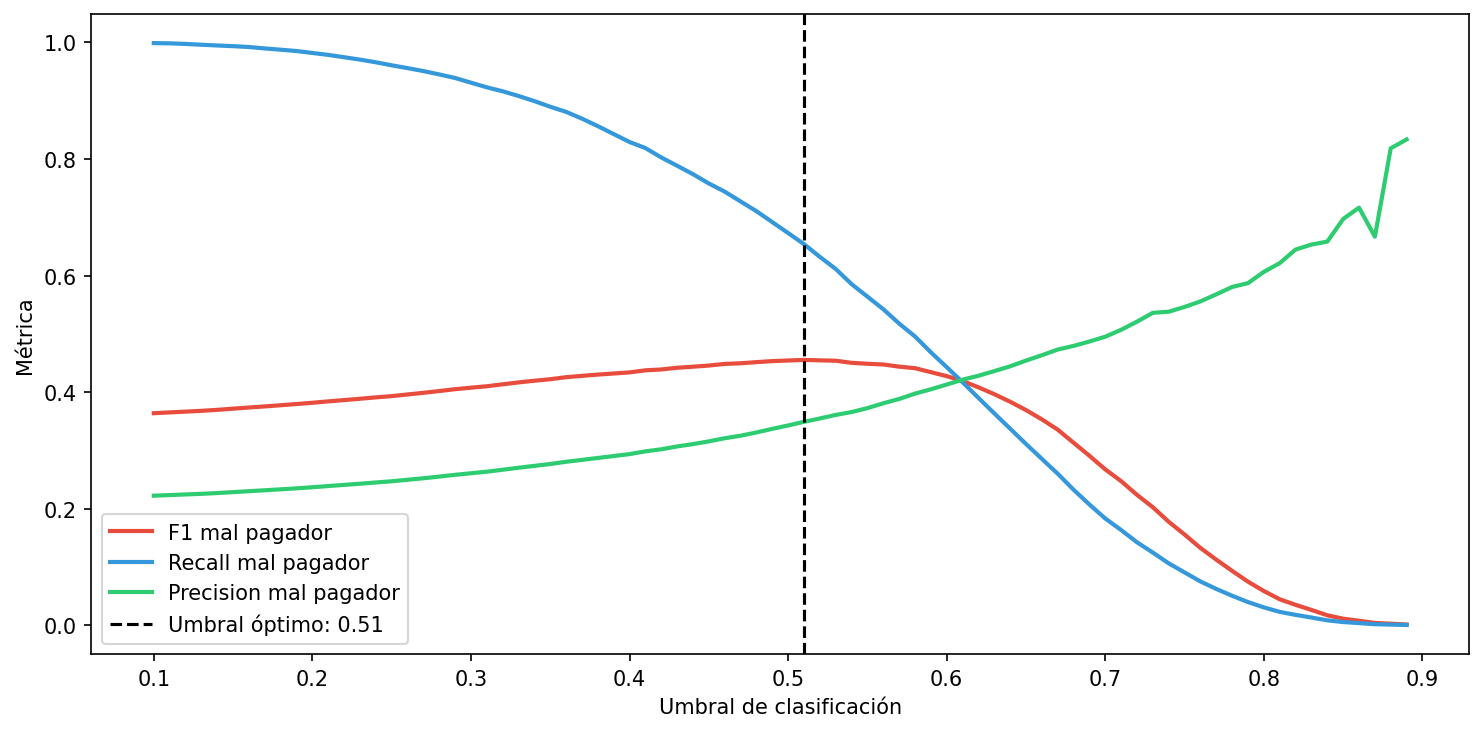
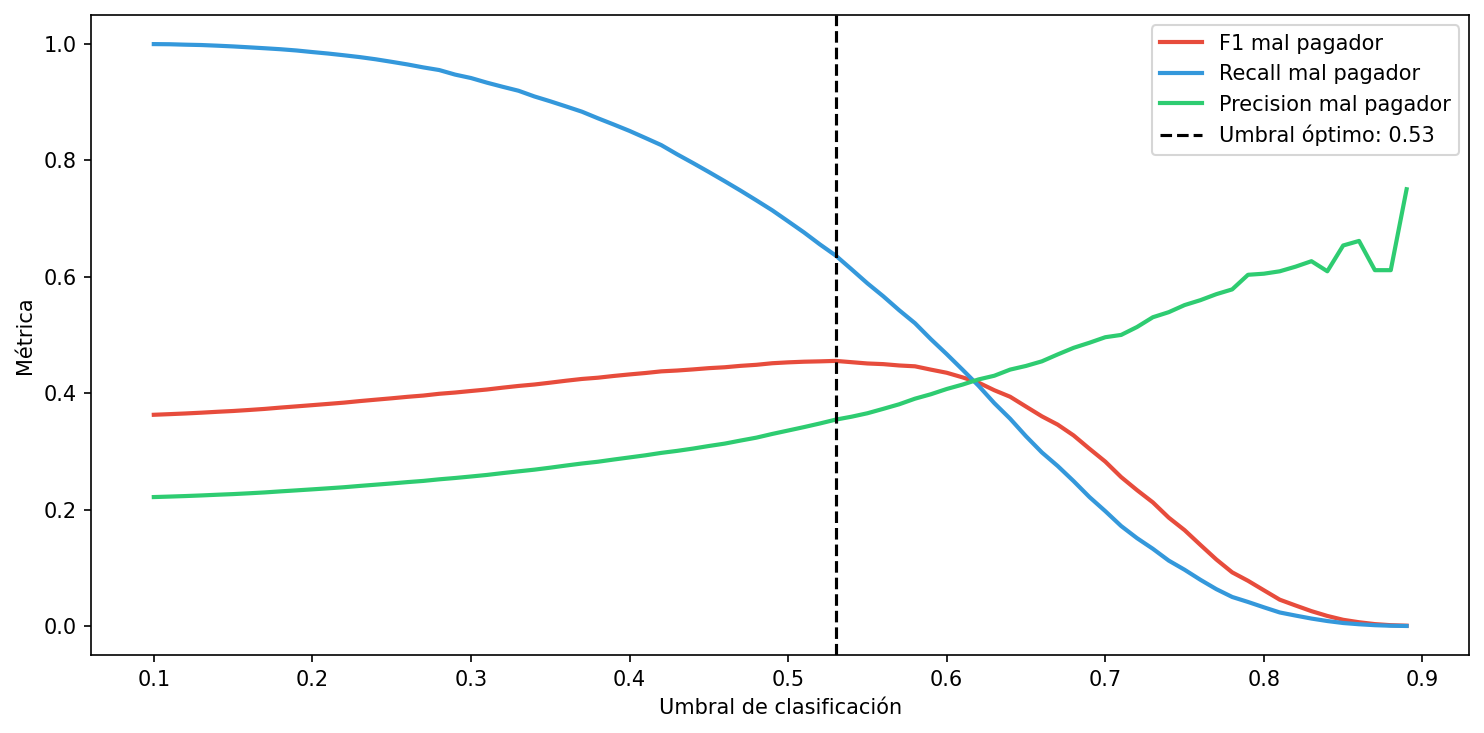
Actualizar blog con nuevas métricas

diff --git a/docs/exploracion.md b/docs/exploracion.md
@@ -49,7 +49,7 @@ Además, tras inspeccionar el diccionario, se identificó que no todas las varia
 | `policy_code` | Generalmente tiene un solo valor (1 o 2) para todo el dataset. Si no varía, no ayuda al modelo a distinguir entre buenos y malos. |
 | `funded_amnt`, `funded_amnt_inv` | A veces el banco aprueba menos de lo que el cliente pidió (`loan_amnt`). Usamos solo `loan_amnt` porque es el riesgo solicitado inicialmente. |
 | `out_prncp`, `out_prncp_inv` | Representan el capital que aún no se ha pagado. En el momento de solicitar el crédito, este valor siempre es igual al monto prestado; si varía, es porque el préstamo ya está en curso, revelando indirectamente si el cliente es "bueno" o "malo" antes de que el modelo prediga. |
-| `grade`| Es una versión simplificada de `sub_grade`. Al mantener ambas, introducimos información redundante que no añade poder predictivo a la Red Neuronal y puede complicar la interpretación de los coeficientes en la scorecard final. |
+| `grade`, `sub_grade` | Representan la calificación interna asignada por la entidad financiera tras su propio análisis. Incluirlas obligaría al modelo a replicar un juicio previo en lugar de aprender patrones de riesgo primarios, invalidando su uso para nuevos solicitantes que aún no han sido calificados.  |
 
 </div>
 
@@ -66,7 +66,6 @@ Para codificar las variables categóricas, primero validamos si una variable es 
 | Variable | Tipo de Dato Original | Tratamiento Propuesto | Justificación |
 | :--- | :--- | :--- | :--- |
 | **`term`** | String (" 36 months") | **Numérico (36, 60)** | El plazo es una magnitud física. Un plazo más largo suele implicar mayor riesgo de impago por exposición al tiempo. |
-| **`grade`** | String ("A1", "B2") | **Ordinal (1 a 35)** | Representa el riesgo asignado por el analista. Hay un orden jerárquico claro donde A1 < A2 < ... < G5. |
 | **`emp_length`** | String ("10+ years") | **Ordinal (0 a 10)** | Representa estabilidad laboral. "10+" es el valor máximo y "< 1 year" el mínimo. Se mapea a una escala lineal. |
 | **`earliest_cr_line`** | Fecha ("Jan-1985") | **Numérico (Meses)** | Una fecha por sí sola no dice nada. Lo que importa es la **antigüedad crediticia**. Calculamos los meses transcurridos desde esa fecha hasta el presente del dataset. |
 | **`verification_status`** | String | **Nominal (One-Hot)** | Aunque hay niveles (Verified vs Not), no hay una escala numérica lineal clara de riesgo entre ellos. |
@@ -76,8 +75,8 @@ Para codificar las variables categóricas, primero validamos si una variable es 
 
 </div>
 
-**Sobre la fecha de referencia para `earliest_cr_line`:**
-Dado que este dataset es histórico (finaliza aproximadamente en 2015-2018), usaremos la **fecha máxima detectada en la columna** como "Hoy". Así medimos la antigüedad relativa de cada cliente. Sin embargo, esto asume un punto de corte estático para todos los préstamos. En un escenario real, sería ideal tener la fecha de cada solicitud de crédito para calcular la antigüedad exacta en ese momento. Pero dado el dataset disponible, esta es una aproximación razonable.
+>**Sobre la fecha de referencia para `earliest_cr_line`:**
+Dado que este dataset es histórico, usaremos la **fecha máxima detectada en la columna** como "Hoy". Así medimos la antigüedad relativa de cada cliente. Sin embargo, esto asume un punto de corte estático para todos los préstamos. En un escenario real, sería ideal tener la fecha de cada solicitud de crédito para calcular la antigüedad exacta en ese momento. Pero dado el dataset disponible, esta es una aproximación razonable.
 
 ## 2. Análisis Descriptivo
 
@@ -90,9 +89,7 @@ Uno de los hallazgos más críticos del análisis descriptivo es la distribució
     <p><em>Figura 1. Distribución de la variable objetivo</em></p>
 </div>
 
-> *Nota: Se observa que hay aproximadamente **3.6 veces más buenos pagadores** que malos pagadores. Este desbalance requiere estrategias específicas de evaluación (como F1-Score o AUC-ROC) en lugar de la precisión simple (Accuracy).*
-
----
+De la Figura 1 se observa que hay aproximadamente **3.6 veces más buenos pagadores** que malos pagadores. Este desbalance requiere estrategias específicas de evaluación (como F1-Score o AUC-ROC) en lugar de la precisión simple (Accuracy).*
 
 ### 2.2 Análisis de Variables Numéricas vs Target
 
@@ -126,31 +123,27 @@ El **revol_util** señala que los malos pagadores usan más dinero del crédito 
 De la misma manera analizaremos las variables categóricas vs el target, comparando cómo se distribuyen las variables categóricas más importantes entre buenos y malos pagadores usando gráficos de barras. De igual manera, si una variable tiene distribuciones diferentes entre las dos clases, es una buena señal de que será útil para el modelo.
 
 Las variables que analizaremos son:
-*   **grade — calificación crediticia del préstamo**
+*   **initial_list_status — estado inicial de la lista de préstamos**
 *   **purpose — propósito del crédito**
 *   **home_ownership — tipo de vivienda del solicitante**
 *   **verification_status — estado de verificación de ingresos**
 *   **emp_length — antigüedad laboral**
 *   **term — plazo del crédito**
 
-> Acá usamos grade porque no la eliminamos por ser irrelevante, sino porque se codificó con sub_grade, y usar sub_grade acá no es posible porque tiene demasiadas categorías. Sin embargo, el análisis de grade nos da una idea de cómo se relaciona la calificación crediticia con el incumplimiento.
-
 <div style="text-align: center;">
     <img src="https://raw.githubusercontent.com/jihernandezc/rnaab_riesgo_crediticio/refs/heads/master/output/figs/fig3_categoricas_vs_target.png" width="700" />
     <p><em>Figura 3. Tasa de incumplimiento por variable categórica</em></p>
 </div>
 
-Basándonos en la Figura 3, podemos deducir que **grade** es la variable categórica con mayor poder de separación pues tiene una tendencia marcada de que mientras mayor sea el grado (más cercano a G) mayor será la probabilidad de que el cliente incumpla con el pago de su crédito.
+Basándonos en la **Figura 7**, se observa que la variable **term** posee el mayor poder de separación del set. Los créditos a **60 meses** presentan una tasa de incumplimiento que casi duplica a los de **36 meses**, confirmando que el horizonte temporal es un factor de riesgo crítico. En cuanto al **purpose**, la variable permite identificar segmentos claramente diferenciados. Los préstamos para **small business** son los más riesgosos, superando ampliamente la media general del 21.9%, mientras que los destinos de **car** y **wedding** muestran ser los más seguros, lo que la convierte en una variable fundamental para el filtrado de solicitudes.
 
-**Purpose** muestra que los créditos para **small bussiness** son los más riesgosos y que para **wedding** y **car** son los más seguros, también aparenta ser una buena variable para separar ambos casos.
+La variable **initial_list_status** presenta una ligera diferencia en el comportamiento de pago según el método de listado inicial del préstamo. Aquellos etiquetados como **"w" (whole)** muestran un índice de incumplimiento ligeramente superior a la media y al estado **"f" (fractional)**, lo que sugiere que la modalidad de financiamiento inicial tiene un impacto medible, aunque sutil, en el riesgo.
 
-El **home_ownership** parece ser más estable por lo que es más riesgoso para nuestro modelo tomar decisiones basadas en dicha variable.
+Respecto a **verification_status**, los datos revelan un comportamiento **contraintuitivo**: los clientes con ingresos **Verified** presentan mayor incumplimiento que los **Not Verified**. Esto podría indicar que la verificación se solicita con mayor rigor a perfiles que ya presentan otros indicadores de riesgo, o que los clientes no verificados poseen una solidez financiera que no requiere de validación adicional por parte del banco.
 
-**verification_status** suele tener un comportamiento similar a la anterior variable y parece que la clasificación es contraintuitiva puesto que los clientes con ingresos **verified** presentan más incumplimiento.
+Por otro lado, **home_ownership** confirma que la estabilidad patrimonial influye en el riesgo; los clientes que viven en **RENT** (alquiler) tienen la tasa de mora más alta, mientras que los que poseen **MORTGAGE** (hipoteca) son más consistentes en sus pagos.
 
-**emp_length** Es la variable con menor poder discriminativo de todas debido a la similitud presentada en todos los posibles valores de la misma con respecto a la media.
-
-Y el **term** si puede ser una variable muy útil, ya que nos permite analizar que los créditos a 60 meses presetan mayor índice de incumplimiento frente a los créditos a 32 meses, lo cual suena bastante lógico.
+Finalmente, **emp_length** (antigüedad laboral) se consolida como la variable con **menor poder discriminativo**. Independientemente de los años de experiencia, la tasa de incumplimiento fluctúa mínimamente alrededor de la media, lo que demuestra que, para este modelo, la estabilidad en el empleo no garantiza necesariamente la voluntad o capacidad de pago.
 
 ### 2.4 Correlación entre las Variables y el Target
 
@@ -211,7 +204,7 @@ Tras el análisis descriptivo, formalizamos las siguientes hipótesis de riesgo 
 | Variable | Hallazgo | Hipótesis de Riesgo |
 | :--- | :--- | :--- |
 | `int_rate` | Malos: 16.0% vs Buenos: 13.3% | **Costo del Riesgo:** A mayor tasa de interés, se genera un fenómeno de "selección adversa" y una carga financiera mayor que asfixia al deudor, elevando la probabilidad de impago. |
-| `dti` | Malos: 18.6 vs Buenos: 16.1 | **Capacidad de Pago:** Un DTI elevado indica que el cliente tiene poco margen de maniobra ante imprevistos económicos, haciendo que el nuevo crédito sea difícil de sostener. |
+| `dti` | Malos: 18.7 vs Buenos: 16.1 | **Capacidad de Pago:** Un DTI elevado indica que el cliente tiene poco margen de maniobra ante imprevistos económicos, haciendo que el nuevo crédito sea difícil de sostener. |
 | `annual_inc` | Malos: \$66k vs Buenos: \$74k | **Efecto Escudo:** Los ingresos altos actúan como un colchón financiero. A menor ingreso, mayor vulnerabilidad ante la volatilidad económica. |
 | `revol_util` | Malos: 59.2% vs Buenos: 53.2% | **Dependencia del Crédito:** Un uso alto de líneas rotativas sugiere que el cliente vive al límite de su capacidad crediticia y utiliza el crédito para gastos corrientes. |
 | `term` | 60 meses tiene > mora | **Exposición Temporal:** Los créditos a largo plazo están sujetos a más eventos de vida (despido, enfermedad), aumentando la incertidumbre del pago final. |
@@ -229,7 +222,7 @@ El proceso de exploración no solo sirvió para limpiar datos, sino para generar
 4.  **Desafío del Desbalance (78/22):** La población está sesgada hacia los buenos pagadores. Esto nos enseña que un modelo "perezoso" podría predecir que todos son buenos y tener un 78% de precisión, pero sería inútil para el negocio. El reto del modelado será maximizar el *Recall* (detectar a los malos) sin destruir la rentabilidad.
 5.  **Variables Contraintuitivas:** Descubrimos que la antigüedad laboral (`emp_length`) tiene poco poder discriminatorio. Esto sugiere que, en el mercado actual, tener muchos años en un empleo no garantiza responsabilidad financiera, lo cual rompe un paradigma tradicional del análisis de crédito.
 
-## 5. Referncias
+## 5. Referencias
 
 **Gopi, S. (2020, 20 de septiembre).** *How to Prepare Data for Credit Risk Modeling*. Towards Data Science. https://towardsdatascience.com/how-to-prepare-data-for-credit-risk-modeling-5523641882f2/
 

diff --git a/docs/modelos.md b/docs/modelos.md
@@ -33,8 +33,8 @@ El entrenamiento se configuró con parámetros específicos para garantizar la e
 
 | Métrica | Clase / Promedio | Precisión | Recall | F1-Score | Soporte |
 | :--- | :--- | :---: | :---: | :---: | :---: |
-| **Clase 0** | Buen pagador | 0.87 | 0.66 | 0.75 | 41,942 |
-| **Clase 1** | Mal pagador | 0.35 | 0.64 | 0.45 | 11,764 |
+| **Clase 0** | Buen pagador | 0.87 | 0.65 | 0.75 | 41,942 |
+| **Clase 1** | Mal pagador | 0.34 | 0.64 | 0.45 | 11,764 |
 | **Exactitud** | *Accuracy* | | | **0.65** | 53,706 |
 | **Promedio Simple** | *Macro Avg* | 0.61 | 0.65 | 0.60 | 53,706 |
 | **Promedio Ponderado** | *Weighted Avg* | 0.75 | 0.65 | 0.68 | 53,706 |
@@ -51,8 +51,8 @@ El entrenamiento se configuró con parámetros específicos para garantizar la e
 De acuerdo con las métricas obtenidas presentadas en la Tabla 1 y la Figura 1, podemos extraer las siguientes conclusiones sobre el rendimiento del modelo de regresión logística:
 
 *   A primera vista, un acierto del 65% parece bajo. Sin embargo, debemos considerar que si el modelo fuera "perezoso" y predijera a todos los clientes como **buenos pagadores**, obtendría un **78.1% de accuracy** de forma artificial, pero fallaría en detectar al 100% de los morosos. Por lo tanto, nuestro 65% es más valioso porque realmente está discriminando entre grupos.
-*   El **AUC-ROC de 70.43%** nos indica que existe un **70.43% de probabilidad** de que el modelo asigne un score de riesgo más alto a un mal pagador elegido al azar que a un buen pagador. Es una medida de la capacidad de separación del modelo, independientemente del umbral usado.
-*   El modelo logra detectar satisfactoriamente al **64% de los malos pagadores reales (Recall)**. No obstante, su precisión es baja (35%), lo que significa que muchas personas marcadas como "riesgosas" en realidad terminarían pagando bien. En el contexto bancario, esto indicaría rechazar a algunos buenos pagadores por precaución antes que aprobar a un mal pagador que genere una pérdida total de capital.
+*   El **AUC-ROC de 70.39%** nos indica que existe un **70.39% de probabilidad** de que el modelo asigne un score de riesgo más alto a un mal pagador elegido al azar que a un buen pagador. Es una medida de la capacidad de separación del modelo, independientemente del umbral usado.
+*   El modelo logra detectar satisfactoriamente al **64% de los malos pagadores reales (Recall)**. No obstante, su precisión es baja (34%), lo que significa que muchas personas marcadas como "riesgosas" en realidad terminarían pagando bien. En el contexto bancario, esto indicaría rechazar a algunos buenos pagadores por precaución antes que aprobar a un mal pagador que genere una pérdida total de capital.
 
 ## 2. Redes Neuronales Artificiales (ANN)
 
@@ -128,7 +128,7 @@ El entrenamiento se realizó durante un máximo de **100 épocas** con un tamañ
 | Métrica | Clase / Promedio | Precisión | Recall | F1-Score | Soporte |
 | :--- | :--- | :---: | :---: | :---: | :---: |
 | **Clase 0** | Buen pagador | 0.87 | 0.64 | 0.74 | 41,942 |
-| **Clase 1** | Mal pagador | 0.34 | 0.67 | 0.45 | 11,764 |
+| **Clase 1** | Mal pagador | 0.34 | 0.66 | 0.45 | 11,764 |
 | **Exactitud** | *Accuracy* | | | **0.65** | 53,706 |
 | **Promedio Simple** | *Macro Avg* | 0.61 | 0.65 | 0.60 | 53,706 |
 | **Promedio Ponderado** | *Weighted Avg* | 0.76 | 0.65 | 0.68 | 53,706 |
@@ -144,8 +144,8 @@ El entrenamiento se realizó durante un máximo de **100 épocas** con un tamañ
 
 De la Tabla 2 y la Figura 2, podemos destacar los siguientes aprendizajes sobre el rendimiento de la Red Neuronal Base:
 
-*   **AUC-ROC (0.7133):** Logramos una mejora ligera frente a la regresión logística (0.7043), demostrando una mayor capacidad de discriminación entre ambas clases.
-*   **Recall del Mal Pagador (67%):** El modelo es capaz de identificar a 2 de cada 3 clientes morosos. Este es un resultado positivo para el negocio, ya que priorizamos la captura de riesgo.
+*   **AUC-ROC (0.7129):** Logramos una mejora ligera frente a la regresión logística (0.7039), demostrando una mayor capacidad de discriminación entre ambas clases.
+*   **Recall del Mal Pagador (66%):** El modelo es capaz de identificar a 2 de cada 3 clientes morosos. Este es un resultado positivo para el negocio, ya que priorizamos la captura de riesgo.
 *   **Precisión del Mal Pagador (34%):** Esta es la métrica más baja; indica que, de cada 100 clientes que el modelo marca como "riesgosos", solo 34 realmente terminan incumpliendo. Existe un costo de oportunidad al clasificar a "buenos pagadores" como "malos" (Falsos Positivos).
 *   **F1-Score (0.45):** El equilibrio entre precisión y sensibilidad se mantiene en niveles similares al baseline, lo que confirma que el modelo base de la red todavía tiene margen de mejora.
 *   **Accuracy General (65%):** Aunque es menor que la proporción de la clase mayoritaria (78%), este valor es esperado dado que el modelo está penalizando fuertemente los errores en la clase minoritaria para no ignorar el riesgo.
@@ -181,7 +181,7 @@ Por defecto, una red neuronal clasifica a un cliente como "mal pagador" si la pr
     <p><em>Figura 3.  Métricas vs Umbral de clasificación</em></p>
 </div>
 
-Realizamos un barrido de umbrales desde el 10% hasta el 90% para encontrar el punto donde maximizamos el **F1-Score** (el equilibrio perfecto entre detectar morosos y no perder clientes buenos). Como se observa en la Figura 3, el **umbral óptimo se situó en 0.51**.
+Realizamos un barrido de umbrales desde el 10% hasta el 90% para encontrar el punto donde maximizamos el **F1-Score** (el equilibrio perfecto entre detectar morosos y no perder clientes buenos). Como se observa en la Figura 3, el **umbral óptimo se situó en 0.53**.
 
 ### Resultados de la Red Optimizada con SMOTE
 
@@ -191,10 +191,10 @@ Realizamos un barrido de umbrales desde el 10% hasta el 90% para encontrar el pu
 
 | Métrica | Clase / Promedio | Precisión | Recall | F1-Score | Soporte |
 | :--- | :--- | :---: | :---: | :---: | :---: |
-| **Clase 0** | Buen pagador | 0.87 | 0.66 | 0.75 | 41,942 |
-| **Clase 1** | Mal pagador | 0.35 | 0.65 | 0.46 | 11,764 |
-| **Exactitud** | *Accuracy* | | | **0.66** | 53,706 |
-| **Promedio Simple** | *Macro Avg* | 0.61 | 0.66 | 0.60 | 53,706 |
+| **Clase 0** | Buen pagador | 0.87 | 0.68 | 0.76 | 41,942 |
+| **Clase 1** | Mal pagador | 0.35 | 0.64 | 0.46 | 11,764 |
+| **Exactitud** | *Accuracy* | | | **0.67** | 53,706 |
+| **Promedio Simple** | *Macro Avg* | 0.61 | 0.66 | 0.61 | 53,706 |
 | **Promedio Ponderado** | *Weighted Avg* | 0.76 | 0.66 | 0.69 | 53,706 |
 
 </div>
@@ -208,8 +208,8 @@ Realizamos un barrido de umbrales desde el 10% hasta el 90% para encontrar el pu
 
 Los resultados obtenidos con la red optimizada utilizando SMOTE, presentados en la Tabla 3 y la Figura 4, revelan los siguientes aprendizajes:
 
-*   **AUC-ROC (0.7132):** Prácticamente idéntico al modelo base y apenas **0.0089** por encima de la Regresión Logística.
-*   **Recall (65%) y Precisión (35%):** Las métricas de clasificación se mantienen estancadas en los mismos niveles que el baseline inicial.
+*   **AUC-ROC (0.7135):** Prácticamente idéntico al modelo base y apenas **0.0096** por encima de la Regresión Logística.
+*   **Recall (64%) y Precisión (35%) para la clase 1:** Las métricas de clasificación se mantienen estancadas en los mismos niveles que el baseline inicial.
 *   **F1-Score (0.46):** No hubo una mejora significativa en el equilibrio entre sensibilidad y precisión.
 
 ## 4. Ensamble Híbrido
@@ -256,7 +256,7 @@ Finalmente, realizamos una **optimización dirigida por el negocio**. En el sect
 
 Los resultados del ensamble híbrido optimizado, presentados en la Tabla 4 y la Figura 5, revelan los siguientes aprendizajes clave:
 
-*   **AUC-ROC Final (0.7204):** Es el valor más alto obtenido en todo el proyecto, superando finalmente la barrera del 0.71.
+*   **AUC-ROC Final (0.7188):** Es el valor más alto obtenido en todo el proyecto, aunque no supera la barrera del 0.71.
 *   **Recall Final del Mal Pagador (70.11%):** Logramos cumplir con el objetivo de detectar a la gran mayoría de los clientes riesgosos.
 *   **Precisión (34%):** Se mantiene estable, lo cual es un éxito considerando que aumentamos el Recall (normalmente, al subir el Recall, la precisión cae drásticamente).
 *   **F1-Score (0.46):** Representa el mejor equilibrio logrado entre todas las técnicas probadas.
@@ -269,7 +269,7 @@ Tras experimentar con técnicas como el sobremuestreo sintético (**SMOTE**), op
 
 * Desde una perspectiva de ingeniería, la implementación de arquitecturas con funciones de activación **Swish** y procesos de **Target Encoding Bayesiano** demandó un costo computacional y de mantenimiento significativamente mayor. No obstante, en el sector financiero, incluso una mejora marginal puede traducirse en ahorros millonarios. Aun así, como bien señalan **Lessmann et al. (2015)** en su estudio comparativo de algoritmos de scoring, las mejoras de las técnicas modernas sobre los modelos lineales suelen ser marginales y requieren un esfuerzo de optimización desproporcionado.
 
-* Aunque un AUC de 0.72 pueda parecer modesto en otras áreas de la IA, en el análisis de riesgo crediticio se considera un desempeño **"Aceptable a Bueno"**. De acuerdo con la escala de **Hosmer et al. (2013)**, un valor por encima de 0.70 indica una capacidad de discriminación adecuada para la toma de decisiones institucionales.
+* Aunque un AUC de 0.7188 pueda parecer modesto en otras áreas de la IA, en el análisis de riesgo crediticio se considera un desempeño **"Aceptable a Bueno"**. De acuerdo con la escala de **Hosmer et al. (2013)**, un valor por encima de 0.70 indica una capacidad de discriminación adecuada para la toma de decisiones institucionales.
 
 El aprendizaje más valioso de este proceso es que hemos alcanzado el límite de rendimiento con el conjunto de información disponible. El modelo es **robusto y confiable** dentro de sus parámetros, pero los resultados confirman que la ventaja competitiva en el futuro no vendrá de una red neuronal más profunda, sino del enriquecimiento del dataset con fuentes de datos alternativas que capturen la señal que hoy se pierde entre el ruido.
 

diff --git a/docs/index.md b/docs/index.md
@@ -39,7 +39,7 @@ Identificación de patrones, valores atípicos (outliers) y relaciones entre var
 
 ### Fase IV: Modelamiento Predictivo y Optimización
 1.  **Modelo de Referencia (Baseline):** Implementación de un modelo de baja complejidad (Regresión Logística) para contrastar el valor agregado de la red neuronal.
-2.  **Arquitectura de Redes Neuronales:** Diseño y optimización de una Red Neuronal medinate diferentes técnicas.
+2.  **Arquitectura de Redes Neuronales:** Diseño y optimización de una Red Neuronal mediante diferentes técnicas.
 3.  **Evaluación Multicriterio:** Uso de métricas como AUC-ROC (capacidad de discriminación), Recall (captura de morosos) y F1-Score (equilibrio de precisión).
 
 ### Fase V: Construcción de la Scorecard
@@ -47,11 +47,11 @@ Identificación de patrones, valores atípicos (outliers) y relaciones entre var
 2.  **Análisis de Atributos:** Identificación de las variables con mayor impacto en el riesgo mediante técnicas de importancia de características (SHAP o pesos del modelo).
 
 ### Fase VI: Desarrollo del Sitio Web
-1.  **Backend:** Integración del modelo entrenado en un entorno de ejecución.
-2.  **Frontend:** Diseño de una interfaz intuitiva donde el usuario ingresa sus datos y recibe:
+1.  Integración del modelo entrenado en un entorno de ejecución.
+2.  Diseño de una interfaz intuitiva donde el usuario ingresa sus datos y recibe:
     * Su puntaje crediticio (Score).
     * Su posición relativa frente a la población general.
-3.  **Visualización:** Gráficas comparativas para mejorar la experiencia del usuario (UX).
+3.  Gráficas comparativas 
 
 ### Fase VII: Comunicación y Difusión
 1.  **Reporte Técnico:** Documentación de cada fase del proyecto, resultados obtenidos y análisis de desempeño.
